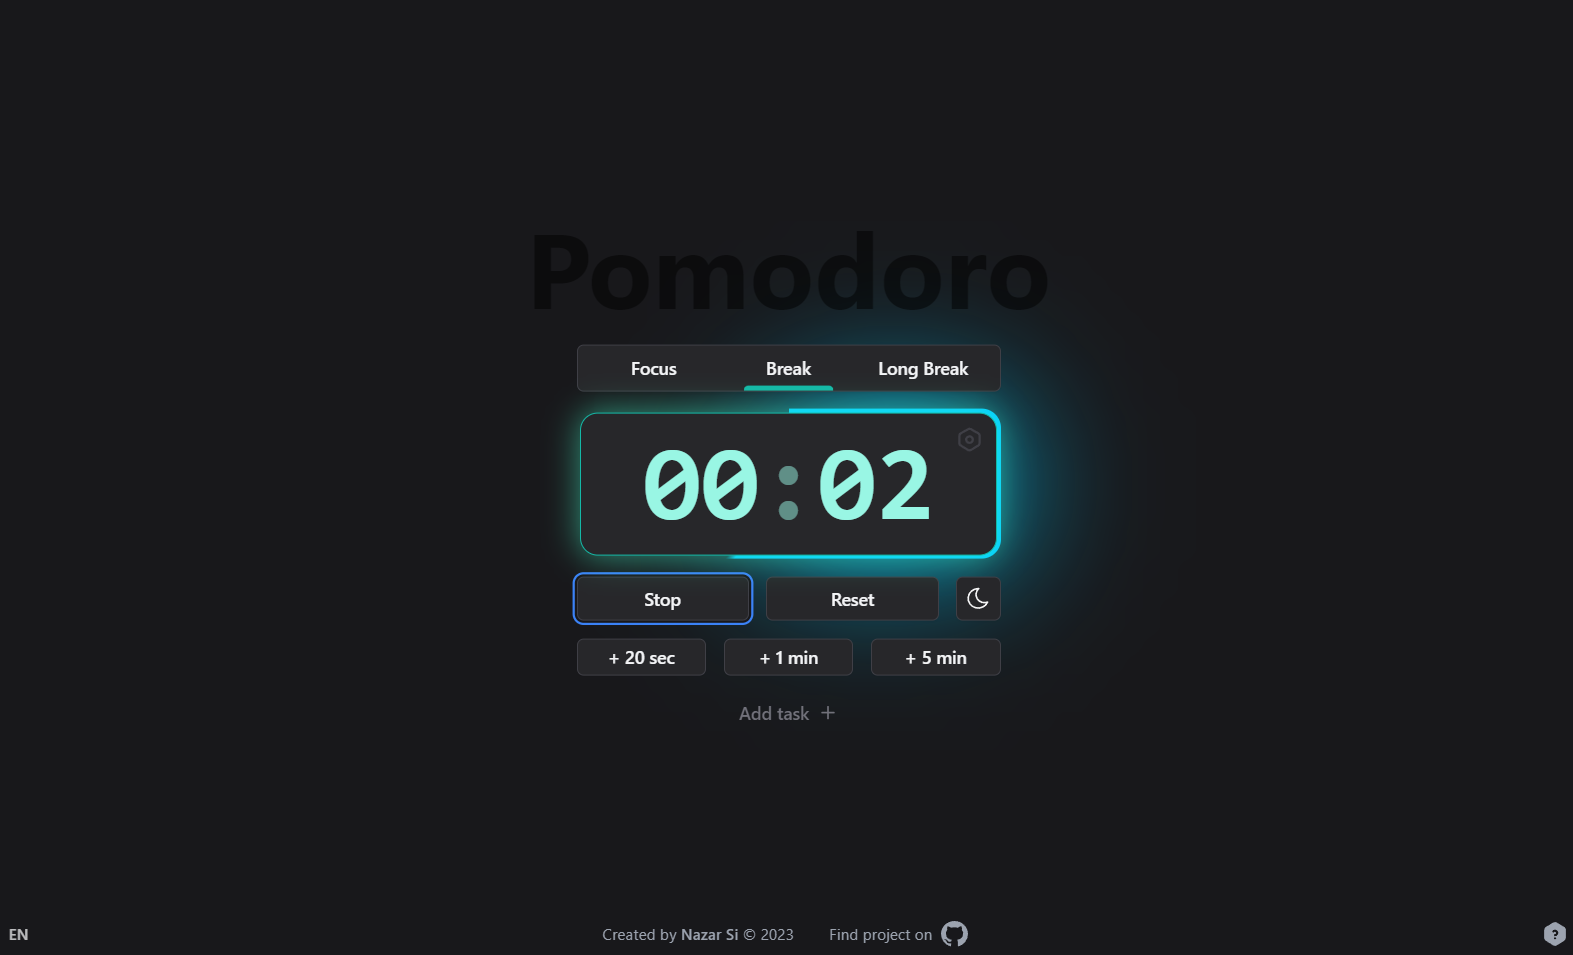
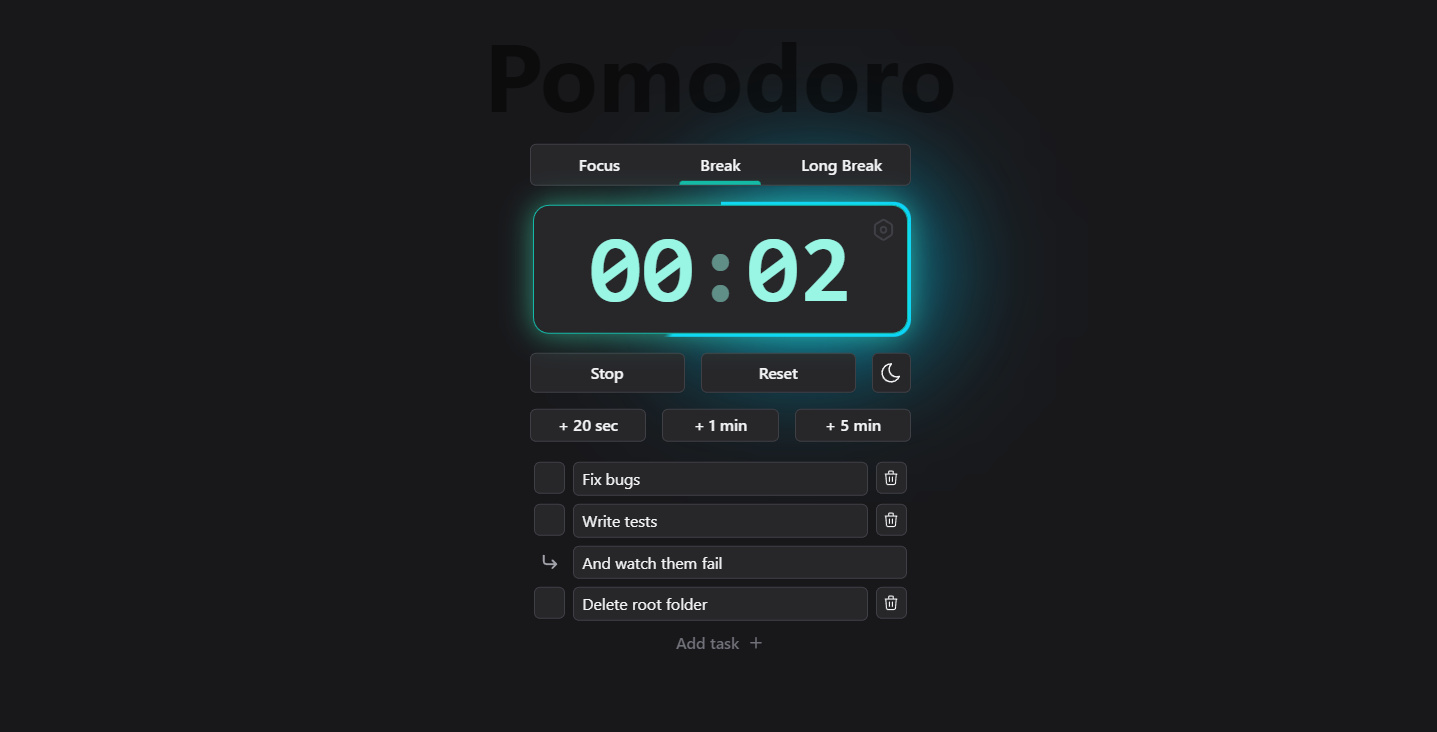
feat: updated task description interface before making it available

diff --git a/src/components/TaskList/Task/Task.tsx b/src/components/TaskList/Task/Task.tsx
@@ -1,7 +1,7 @@
 import React, { useEffect, useRef } from 'react';
 import Button from '../../ui/Button/Button';
 import useTasksStore, { Task } from '../../../store/tasks';
-import { IconCheck, IconGripVertical, IconTrash } from '@tabler/icons-react';
+import { IconCheck, IconCornerDownRight, IconGripVertical, IconIndentIncrease, IconTrash } from '@tabler/icons-react';
 import { classNames } from '../../../utls/classnames';
 import { useSortable } from '@dnd-kit/sortable';
 import { CSS } from '@dnd-kit/utilities';
@@ -166,12 +166,17 @@ export default function Task({ task, index }: Props) {
         </Button> */}
       </div>
       {task.description && (
-        <input
+        <>
+          <div className='w-8 h-8 flex items-center justify-center text-zinc-500 dark:text-zinc-400'>
+            <IconCornerDownRight />
+          </div>
+          <input
           type="text"
           role="description"
           placeholder="Description"
-          className={classNames('col-span-3', style.input)}
+          className={classNames('col-span-2 flex-1', style.input)}
         />
+        </>
       )}
     </div>
   );
